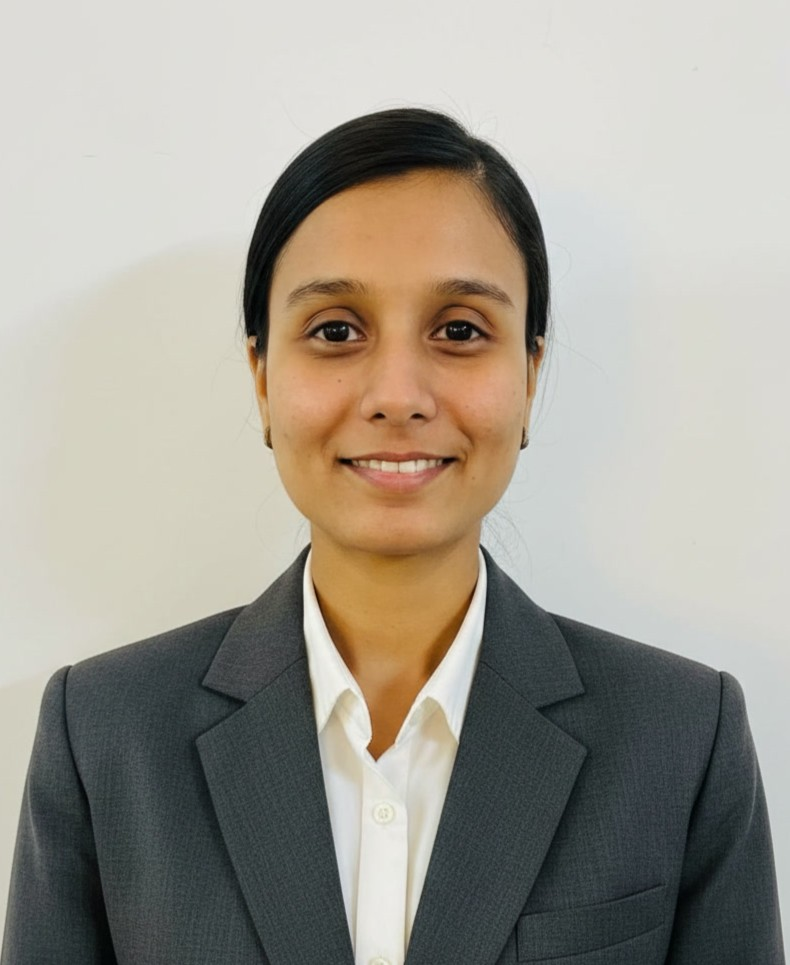
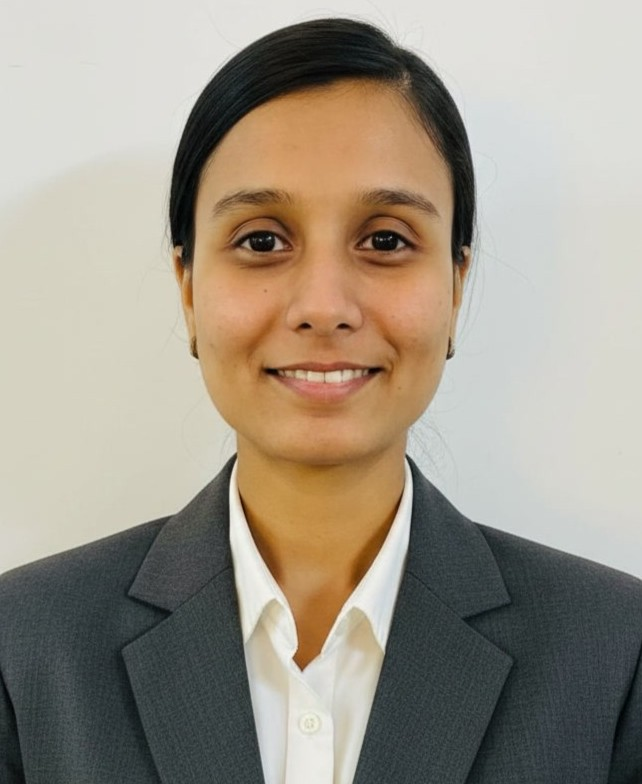
Fix mobile navbar alignment, remove empty space below hero image

diff --git a/index.html b/index.html
@@ -30,18 +30,16 @@
   ::-webkit-scrollbar-thumb { background: var(--black); border-radius: 3px; }
 
   /* NAVBAR */
-  .navbar {
-    position: sticky; top: 0; z-index: 100;
-    background: var(--black);
-    padding: 0 48px; height: 64px;
-    display: flex; align-items: center;
-    gap: 16px;
-    margin: 16px; border-radius: var(--radius);
-  }
-  .nav-name { font-size: 1rem; font-weight: 500; color: var(--white); letter-spacing: 0.3px; margin-right: auto; }
-  .nav-links { display: flex; gap: 24px; list-style: none; margin-right: auto; }
+  .nav-name { font-size: 1rem; font-weight: 500; color: var(--white); letter-spacing: 0.3px; }
+  .nav-links { display: flex; gap: 24px; list-style: none; margin-left: auto; }
   .nav-links a { font-size: 0.82rem; color: rgba(255,255,255,0.65); text-decoration: none; transition: color 0.2s; }
   .nav-links a:hover { color: var(--white); }
+  .navbar { position: sticky; top: 0; z-index: 100;
+    background: var(--black);
+    padding: 0 48px; height: 64px;
+    display: flex; align-items: center; justify-content: space-between; gap: 24px;
+    margin: 16px; border-radius: var(--radius);
+  }
   .hamburger { display: none; background: none; border: none; color: var(--white); font-size: 1.2rem; cursor: pointer; }
   .nav-dl-mobile { display: none; background: none; border: none; color: var(--white); font-size: 1.2rem; cursor: pointer; text-decoration: none; }
 
@@ -53,6 +51,7 @@
   .row-2 { grid-template-columns: 1fr 1fr; }
   .row-3 { grid-template-columns: 1fr 1fr 1fr; }
   .row-lheavy { grid-template-columns: 1.05fr 0.95fr; }
+  .row-hero { grid-template-columns: 2fr 1fr; }
   .row-rheavy { grid-template-columns: 0.95fr 1.05fr; }
 
   .card { border-radius: var(--radius); overflow: hidden; }
@@ -443,26 +442,30 @@
 
 <div class="page">
 
+  <!-- HERO + TAGLINE + QUICK ACTIONS -->
+  <div style="display:flex;flex-direction:column;gap:12px;">
+
   <!-- HERO -->
-  <div class="row row-lheavy rv">
+  <div class="row row-lheavy row-hero rv">
     <div class="hero-name-card"><div style="color:#fff;font-size:0.75rem;letter-spacing:3px;text-transform:uppercase;margin-bottom:8px;"><span id="tw-text"></span><span class="tw-cursor">|</span></div><div class="hero-name rv-scale">Vaishali</div></div>
     <div class="hero-photo-card rv-right">
-      <img src="https://i.imgur.com/EJda1Jh.jpeg" alt="Vaishali" style="width:100%;height:100%;object-fit:cover;">
+      <img src="https://i.postimg.cc/fbThF4N9/vish-pic.jpg" alt="Vaishali" style="width:100%;height:100%;object-fit:cover;object-position:right;">
     </div>
   </div>
 
-  <div class="row row-2">
-    <div class="tagline-card rv-clip">
+  <div class="row tagline-cta-wrap" style="display:flex;flex-direction:column;gap:0;border-radius:var(--radius);overflow:hidden;">
+    <div class="tagline-card rv-clip" style="border-radius:0;padding:24px 32px;">
       <div class="tagline-text">Full Stack Web Developer &amp; WordPress Specialist. Building modern, responsive, performance-driven web experiences.</div>
     </div>
-    <div class="cta-card rv-up">
+    <div class="cta-card rv-up" style="border-radius:0;padding:24px 32px;">
       <div class="cta-label">Quick Actions</div>
-      <div class="cta-btns">
+      <div class="cta-btns" style="flex-direction:row;flex-wrap:wrap;">
         <a href="#projects" class="cta-btn primary"><i class="fa-solid fa-eye"></i>View Projects</a>
         <a href="#" class="cta-btn"><i class="fa-solid fa-download"></i>Download Resume</a>
         <a href="#contact" class="cta-btn"><i class="fa-solid fa-paper-plane"></i>Contact Me</a>
       </div>
     </div>
+  </div>
   </div>
 
   <div class="row row-3 rv-stagger">